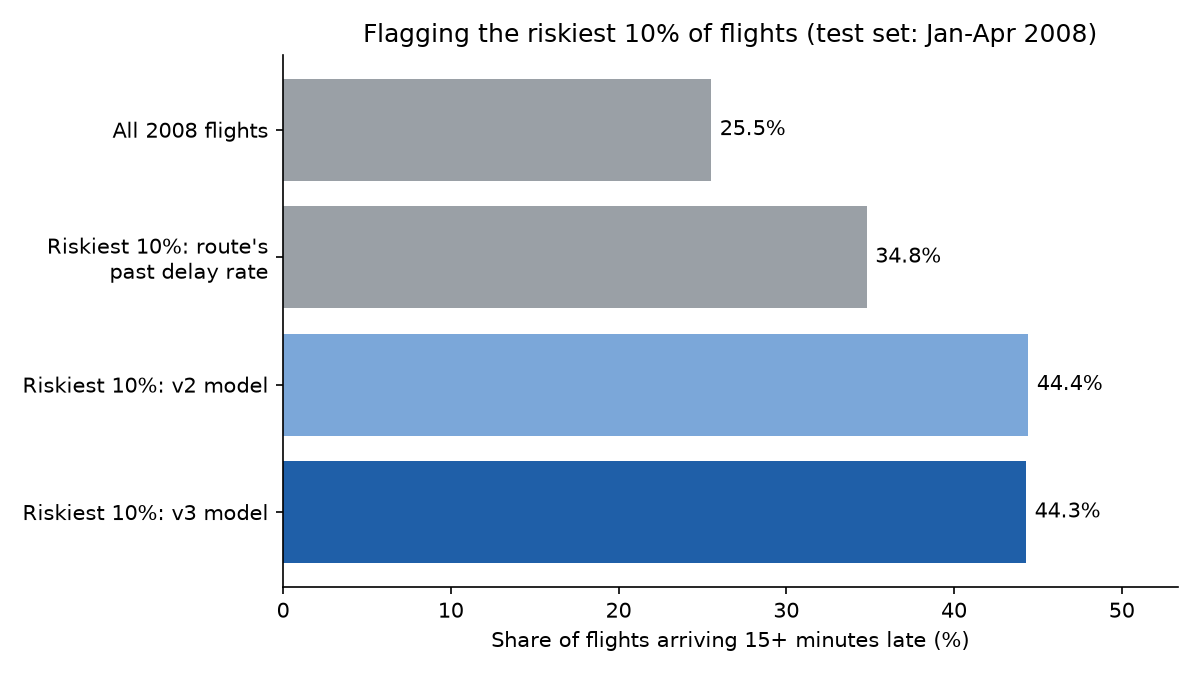
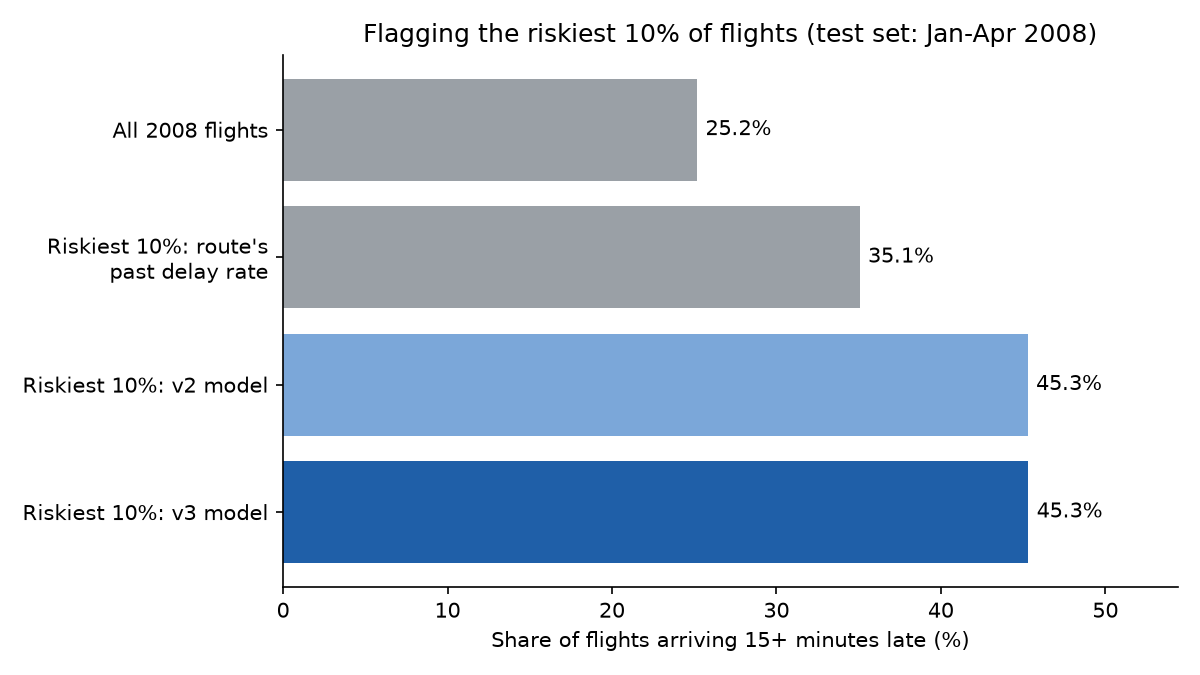
Rerun the 2-hour, 1-hour, weather and calibration models on the 30% sample

diff --git a/src/build_web_page.py b/src/build_web_page.py
@@ -10,7 +10,12 @@ the same ones as in src/prediction_time.py, trained on 2004-2007 only, so
 every flight on the page is one the model never saw.
 
 Usage:
-    python src/build_web_page.py --db data/Fly.db [--weather data/weather] [--pct 1] [--seed 42]
+    python src/build_web_page.py --db data/Fly.db [--weather data/weather] [--pct 1] [--seed 42] [--show-pct 1]
+
+--pct sets how many flights the models learn from. --show-pct sets how many test
+flights go on the page: a 30% sample has about 700,000 test flights, far too many
+for one file, so the page can show a smaller sample while the headline numbers
+still come from every test flight.
 """
 
 import argparse
@@ -107,6 +112,15 @@ def summary(test, risks):
     return {"flights": len(test), "late_overall": round(test["Delayed"].mean(), 3), "by_time": rows}
 
 
+def flights_to_show(test, show_pct, seed):
+    """The test flights that go on the page: all of them, or the ones in a smaller sample."""
+    if show_pct is None:
+        return test
+    # The same hash as model_v2's sampling, so a 1% page holds exactly the 1% sample's flights
+    keep = [model_v2.in_sample(flight_id, show_pct, seed) == 1 for flight_id in test["FlightId"]]
+    return test[keep]
+
+
 def page_rows(test, risks, facts):
     """One short list per flight, in the order of COLUMNS, to keep the file small."""
     test = test.set_index("FlightId")
@@ -144,6 +158,8 @@ def main():
                     help="folder from download_weather.py; skipped if it doesn't exist")
     ap.add_argument("--pct", type=float, default=1, help="percent of flights to sample (default 1)")
     ap.add_argument("--seed", type=int, default=42, help="sampling seed (default 42); same seed, same sample")
+    ap.add_argument("--show-pct", type=float, default=None,
+                    help="percent of flights to put on the page (default: every test flight)")
     args = ap.parse_args()
 
     weather = args.weather if Path(args.weather, "time_zones.json").exists() else None
@@ -152,7 +168,8 @@ def main():
     risks, facts = predictions_at_each_time(df, args.db, weather)
     carriers, airports = names(args.db)
 
-    rows = page_rows(test, risks, facts)
+    # Headline numbers use every test flight; the flight list may be a smaller sample
+    rows = page_rows(flights_to_show(test, args.show_pct, args.seed), risks, facts)
     used_airports = {code for row in rows for code in (row[3], row[4])}
     used_carriers = {row[1] for row in rows}
     page_data = {

diff --git a/tests/test_build_web_page.py b/tests/test_build_web_page.py
@@ -61,3 +61,13 @@ def test_weather_sentence():
                       "OriginStorm": 0, "OriginSnow": 0, "OriginFog": 0})
     assert build_web_page.weather_sentence(calm, "Origin") == "visibility 10 miles; no thunderstorm, snow or fog"
     assert build_web_page.weather_sentence(pd.Series({"OriginVisibility": np.nan}), "Origin") is None
+
+
+def test_page_can_show_a_smaller_sample_of_the_same_flights(db):
+    df = model_v3.load(db, pct=100, seed=42)
+    _, test = model_v2.split_by_year(df)
+    shown = build_web_page.flights_to_show(test, show_pct=20, seed=42)
+    assert 0 < len(shown) < len(test)
+    # Exactly the flights a 20% sample would have picked
+    assert set(shown["FlightId"]) == set(test["FlightId"]) & set(model_v3.load(db, pct=20, seed=42)["FlightId"])
+    assert build_web_page.flights_to_show(test, None, 42) is test

diff --git a/README.md b/README.md
@@ -12,8 +12,8 @@ I analysed 31 million US domestic flights (2004–2008) in Python, R and SQL. Th
 
 - **Data:** 31 million flights, loaded into a SQLite database.
 - **Best time to fly:** the morning. 15.6% of flights scheduled to leave in the morning are late, against 30.9% in the evening.
-- **The model:** the first version scored 0.93–0.98 AUC, which was too good to be true. It used the departure delay to predict the arrival delay. With only the timetable, the honest score is **0.654**, from a model that learned from 8.5 million flights. Predicting 2 hours before departure, using only what has already happened that day, it rises to **0.751** (so far measured on a 1% sample).
-- **What it's good for:** 2 hours out, the 10% of flights the model rates riskiest are late 72% of the time, against 25.5% for all 2008 flights. An airline could send standby crews and spare gates to that list.
+- **The model:** the first version scored 0.93–0.98 AUC, which was too good to be true. It used the departure delay to predict the arrival delay. With only the timetable, the honest score is **0.654**, from a model that learned from 8.5 million flights. Predicting 2 hours before departure, using only what has already happened that day, it rises to **0.765**.
+- **What it's good for:** 2 hours out, the 10% of flights the model rates riskiest are late 73% of the time, against 25.2% for all 2008 flights. An airline could send standby crews and spare gates to that list.
 - **The lesson:** always check *when* each piece of information becomes known.
 
 ![Delay rate by time of day](images/delay_rate_by_time_of_day.png)
@@ -96,7 +96,7 @@ The 2008 data only covers January to April. Each sample is a fixed share of all 
 
 **More data helped gradient boosting a little (0.642 → 0.654) and logistic regression not at all.** Gradient boosting can pick up patterns for rare airports and routes, and more flights give it enough examples of each. Logistic regression gives each airport, airline and hour one fixed weight, and 1% of the data was already enough to set those. (An earlier version of this README said 0.627, 0.641 and 0.997. Those came from a random sample that could not be repeated.)
 
-Steps 4 to 7 below still use the 1% sample, so they compare against the 1% timetable score of 0.642.
+Steps 4 to 8 below use the same 30% sample and the same 695,298 test flights.
 
 ![ROC curves, v2: pre-departure vs leaky features](images/roc_curve_v2.png)
 
@@ -111,22 +111,22 @@ I also compared every model against a simple **benchmark**: no model at all, jus
 
 | Method | Score on 2008 flights (AUC) | Late, among the riskiest 10% | Share of all late flights caught |
 |---|---|---|---|
-| Benchmark: route's past delay rate | 0.589 | 34.8% | 13.6% |
-| v2 gradient boosting | 0.642 | 44.4% | 17.4% |
-| v2 + airport busyness | 0.644 | 44.1% | 17.3% |
-| v2 + route history | 0.641 | 44.1% | 17.3% |
-| v3 gradient boosting (both added) | 0.642 | 44.3% | 17.4% |
-| v3 logistic regression (both added) | 0.633 | 42.1% | 16.5% |
+| Benchmark: route's past delay rate | 0.589 | 35.1% | 13.9% |
+| v2 gradient boosting | 0.654 | 45.3% | 18.0% |
+| v2 + airport busyness | 0.655 | 45.3% | 18.0% |
+| v2 + route history | 0.653 | 45.3% | 18.0% |
+| v3 gradient boosting (both added) | 0.654 | 45.3% | 18.0% |
+| v3 logistic regression (both added) | 0.633 | 42.0% | 16.7% |
 
-Same 1% sample and same 2008 test flights as Step 3. Across all 2008 test flights, 25.5% were late.
+Same 30% sample and same 2008 test flights as Step 3. Across all 2008 test flights, 25.2% were late.
 
 ![Riskiest 10% of flights](images/riskiest_flights_v3.png)
 
 **What this means.**
 
-- **The model beats the benchmark clearly.** Its riskiest 10% of flights are late 44% of the time: 1.7 times the average. Ranking by route history alone gives 35%.
-- **The new features did not help gradient boosting.** It already knows the airport, route, airline and hour, so it had worked out most of this for itself. They did help the simpler logistic regression (0.628 → 0.633).
-- **More data helps a little, not a lot.** With a 5% sample (1,412,072 training flights), gradient boosting scored 0.647 with or without the new features (`python src/model_v3.py --pct 5`).
+- **The model beats the benchmark clearly.** Its riskiest 10% of flights are late 45% of the time: 1.8 times the average. Ranking by route history alone gives 35%.
+- **The new features did not help gradient boosting.** It already knows the airport, route, airline and hour, so it had worked out most of this for itself. They did help the simpler logistic regression (0.629 → 0.633).
+- **More data helps a little, not a lot.** Gradient boosting scored 0.642 on the 1% sample, 0.647 on 5% and 0.654 on 30%.
 - **The timetable alone has a ceiling of about 0.65.** Even 8.5 million training flights only reach 0.654 (Step 3). Most delays come from things that happen on the day, like weather and late incoming planes. Getting past that ceiling means predicting closer to departure, using what has already gone wrong that day.
 
 **Step 5: predicting 2 hours before departure** (`src/model_v4.py`). An airline re-plans crews and gates a couple of hours ahead, and by then it knows more. I moved the prediction to 2 hours before the scheduled departure and added only what is known at that moment:
@@ -139,23 +139,23 @@ This keeps the leakage rule from Step 2: nothing that happens after the 2-hour m
 
 | Method | Score on 2008 flights (AUC) | Late, among the riskiest 10% | Share of all late flights caught |
 |---|---|---|---|
-| Benchmark: route's past delay rate | 0.589 | 34.8% | 13.6% |
-| v3 gradient boosting (timetable only) | 0.642 | 44.3% | 17.4% |
-| + airport's earlier delays only | 0.689 | 58.3% | 22.8% |
-| + plane's previous flight only | 0.731 | 65.9% | 25.8% |
-| v4 logistic regression (2 hours before) | 0.693 | 59.2% | 23.2% |
-| v4 gradient boosting (2 hours before) | **0.751** | **72.1%** | **28.2%** |
+| Benchmark: route's past delay rate | 0.589 | 35.1% | 13.9% |
+| v3 gradient boosting (timetable only) | 0.654 | 45.3% | 18.0% |
+| + airport's earlier delays only | 0.698 | 58.0% | 23.0% |
+| + plane's previous flight only | 0.745 | 68.5% | 27.2% |
+| v4 logistic regression (2 hours before) | 0.691 | 58.5% | 23.2% |
+| v4 gradient boosting (2 hours before) | **0.765** | **73.5%** | **29.2%** |
 
-Same 1% sample and same 2008 test flights as Steps 3 and 4. The airport's earlier delays are known for 84.7% of test flights, the turnaround for 76.8%, and the previous flight's delay for 52.9%. Early-morning flights, for example, have nothing earlier that day to learn from.
+Same 30% sample and same 2008 test flights as Steps 3 and 4. The airport's earlier delays are known for 84.6% of test flights, the turnaround for 77.0%, and the previous flight's delay for 53.2%. On the 1% sample this model scored 0.751, so more data added about 0.014. Early-morning flights, for example, have nothing earlier that day to learn from.
 
 ![Riskiest 10% of flights, 2 hours before departure](images/riskiest_flights_v4.png)
 
 **What this means.**
 
-- **What happened earlier that day matters more than anything in the timetable.** The plane's previous flight alone lifts the score from 0.642 to 0.731.
-- **2 hours out, the riskiest 10% are late 72% of the time**, 2.8 times the average. That list holds 28% of all late flights.
-- **This is still not leakage.** The leaky model scored 0.996 because it was given the flight's own delay. This one only sees other flights, and only what had already happened 2 hours before.
-- **The two models answer different questions.** The timetable model (0.642) works weeks ahead, for planning schedules. The 2-hour model (0.751) works on the day, for operations.
+- **What happened earlier that day matters more than anything in the timetable.** The plane's previous flight alone lifts the score from 0.654 to 0.745.
+- **2 hours out, the riskiest 10% are late 73% of the time**, 2.9 times the average. That list holds 29% of all late flights.
+- **This is still not leakage.** The leaky model scored 0.998 because it was given the flight's own delay. This one only sees other flights, and only what had already happened 2 hours before.
+- **The two models answer different questions.** The timetable model (0.654) works weeks ahead, for planning schedules. The 2-hour model (0.765) works on the day, for operations.
 
 **Step 6: can its percentages be trusted, and when should it raise an alert?** (`src/check_probabilities.py`). A ranking is useful, but an airline acting on "70% chance of delay" needs that 70% to be true. I grouped the 2008 test flights by the 2-hour model's predicted chance and checked how many in each group were really late.
 
@@ -163,32 +163,32 @@ Same 1% sample and same 2008 test flights as Steps 3 and 4. The airport's earlie
 
 | Predicted chance | Flights | Model's average prediction | Really late |
 |---|---|---|---|
-| 0–10% | 5,431 | 7.2% | 9.1% |
-| 10–20% | 8,233 | 14.5% | 16.7% |
-| 20–30% | 3,769 | 24.4% | 26.9% |
-| 30–40% | 2,083 | 34.5% | 34.0% |
-| 40–50% | 1,235 | 44.7% | 44.8% |
-| 50–60% | 914 | 54.7% | 54.4% |
-| 60–70% | 644 | 64.7% | 67.2% |
-| 70–80% | 504 | 74.9% | 77.2% |
-| 80–90% | 356 | 84.8% | 90.2% |
-| 90–100% | 194 | 93.5% | 95.4% |
+| 0–10% | 159,626 | 6.9% | 7.9% |
+| 10–20% | 243,545 | 14.5% | 16.2% |
+| 20–30% | 119,551 | 24.4% | 25.8% |
+| 30–40% | 59,694 | 34.5% | 35.6% |
+| 40–50% | 35,537 | 44.6% | 44.9% |
+| 50–60% | 24,187 | 54.7% | 54.9% |
+| 60–70% | 17,338 | 64.8% | 64.9% |
+| 70–80% | 13,946 | 74.8% | 76.4% |
+| 80–90% | 11,238 | 84.9% | 86.5% |
+| 90–100% | 10,636 | 95.1% | 96.0% |
 
-- **The percentages can be trusted.** On average, a group's prediction is 1.9 points away from what really happened, so no correction is needed.
-- **Where they are off, they run a little low.** The model expects 23.7% of 2008 flights to be late; 25.5% were. Delays became more common every year (20% in 2004, 24.7% in 2007), and a model trained on the past can't know that 2008 would be worse still.
+- **The percentages can be trusted.** On average, a group's prediction is 1.2 points away from what really happened, so no correction is needed.
+- **Where they are off, they run a little low.** The model expects 24.0% of 2008 flights to be late; 25.2% were. Delays became more common every year (20.4% in 2004, 24.8% in 2007), and a model trained on the past can't know that 2008 would be worse still.
 
 **Choosing an alert level.** It is worth acting on a flight when the expected cost of a delay is bigger than the cost of acting: chance of delay × cost of a missed delay > cost of acting. So the alert level is simply **cost of acting ÷ cost of a missed delay**. This only works because the percentages are trustworthy.
 
 | Alert if chance is at least | Flights flagged | Late, among flagged | Share of all late flights caught |
 |---|---|---|---|
-| 20% | 41.5% | 42.3% | 68.7% |
-| 25% | 32.1% | 47.5% | 59.6% |
-| 30% | 25.4% | 52.0% | 51.7% |
-| 40% | 16.5% | 61.8% | 39.9% |
-| 50% | 11.2% | 69.9% | 30.6% |
-| 70% | 4.5% | 84.9% | 15.0% |
+| 20% | 42.0% | 42.2% | 70.3% |
+| 25% | 31.8% | 48.1% | 60.7% |
+| 30% | 24.8% | 53.5% | 52.7% |
+| 40% | 16.2% | 63.0% | 40.6% |
+| 50% | 11.1% | 71.2% | 31.5% |
+| 70% | 5.2% | 85.4% | 17.5% |
 
-For example, if a missed delay costs four times as much as acting (an illustration, not a real airline figure), the alert level is 1 ÷ 4 = 25%. The model would flag about a third of flights and catch 60% of late ones. If acting is expensive, raise the level: at 70%, it flags 4.5% of flights and 85% of them are really late. `--cost-of-acting` and `--cost-of-missed-delay` let you plug in real costs.
+For example, if a missed delay costs four times as much as acting (an illustration, not a real airline figure), the alert level is 1 ÷ 4 = 25%. The model would flag about a third of flights and catch 61% of late ones. If acting is expensive, raise the level: at 70%, it flags 5.2% of flights and 85% of them are really late. `--cost-of-acting` and `--cost-of-missed-delay` let you plug in real costs.
 
 **Step 7: how much does it help to wait?** (`src/prediction_time.py`). I rebuilt the same model with the cutoff at 4 hours, 2 hours and 1 hour before departure. At each cutoff it sees only what had happened by then, so later cutoffs know more.
 
@@ -196,15 +196,15 @@ For example, if a missed delay costs four times as much as acting (an illustrati
 
 | Prediction made | Score on 2008 flights (AUC) | Late, among the riskiest 10% | Share of all late flights caught | Plane's previous take-off known |
 |---|---|---|---|---|
-| Weeks ahead (timetable only) | 0.642 | 44.3% | 17.4% | – |
-| 4 hours before | 0.693 | 58.4% | 22.9% | 12.5% of flights |
-| 2 hours before | 0.751 | 72.1% | 28.2% | 52.9% |
-| 1 hour before | 0.795 | 85.6% | 33.5% | 73.7% |
-| After take-off (leaky) | 0.996 | 100% | 39.2% | – |
+| Weeks ahead (timetable only) | 0.654 | 45.3% | 18.0% | – |
+| 4 hours before | 0.707 | 59.4% | 23.6% | 12.6% of flights |
+| 2 hours before | 0.765 | 73.5% | 29.2% | 53.2% |
+| 1 hour before | 0.807 | 86.2% | 34.2% | 74.1% |
+| After take-off (leaky) | 0.998 | 100% | 39.7% | – |
 
-- **Every hour closer adds accuracy**, mostly because more incoming planes have already taken off. At 4 hours, 12.5% of flights have that information. At 1 hour, 73.7% do.
+- **Every hour closer adds accuracy**, mostly because more incoming planes have already taken off. At 4 hours, 12.6% of flights have that information. At 1 hour, 74.1% do.
 - **This is the trade-off an airline faces:** wait longer and the warning is more accurate, but there is less time to act on it. 1 hour out, 86% of flagged flights are late, but there may be no spare crew left to call.
-- **Even 1 hour out, the honest model (0.795) is far from the leaky one (0.996).** That gap is what the leaky model was getting by being told the answer.
+- **Even 1 hour out, the honest model (0.807) is far from the leaky one (0.998).** That gap is what the leaky model was getting by being told the answer.
 
 **Step 8: adding the weather** (`src/download_weather.py`, `src/model_weather.py`). I downloaded the hourly weather reports that US airports publish, for 2004 to April 2008, from the [Iowa Environmental Mesonet](https://mesonet.agron.iastate.edu/request/download.phtml) (Iowa State University). That covers 96 of the 100 busiest airports (232 MB); the other four aren't in the archive. For each flight, the model sees the **last report issued before the 2-hour mark** at both the departure and arrival airports:
 
@@ -215,14 +215,14 @@ A report more than 3 hours old is treated as unknown. All times are converted to
 
 | Method | Score on 2008 flights (AUC) | Late, among the riskiest 10% | Share of all late flights caught |
 |---|---|---|---|
-| Timetable only (weeks ahead) | 0.642 | 44.3% | 17.4% |
-| Timetable + weather, 2 hours before | 0.704 | 60.4% | 23.7% |
-| 2 hours before | 0.751 | 72.1% | 28.2% |
-| 2 hours before + weather | **0.780** | **76.0%** | **29.8%** |
+| Timetable only (weeks ahead) | 0.654 | 45.3% | 18.0% |
+| Timetable + weather, 2 hours before | 0.717 | 62.3% | 24.7% |
+| 2 hours before | 0.765 | 73.5% | 29.2% |
+| 2 hours before + weather | **0.793** | **77.7%** | **30.9%** |
 
-Weather is known at the departure airport for 90.6% of test flights, and at the arrival airport for 88.3%.
+Weather is known at the departure airport for 90.7% of test flights, and at the arrival airport for 88.2%.
 
-- **Weather helps, and it helps most when little else is known.** Adding only the weather to the timetable features lifts the score from 0.642 to 0.704, but adding it to the full 2-hour model only lifts it from 0.751 to 0.780. Note that the 0.704 model is a 2-hour prediction too: weather on the day isn't known weeks ahead, so it doesn't improve the weeks-ahead model. The airport's earlier delays already reflect a bad-weather day, so some of the information was already there.
+- **Weather helps, and it helps most when little else is known.** Adding only the weather to the timetable features lifts the score from 0.654 to 0.717, but adding it to the full 2-hour model only lifts it from 0.765 to 0.793. Note that the 0.717 model is a 2-hour prediction too: weather on the day isn't known weeks ahead, so it doesn't improve the weeks-ahead model. The airport's earlier delays already reflect a bad-weather day, so some of the information was already there.
 - **The arrival airport matters too.** A storm at the destination delays the arrival even if the departure is on time.
 
 ## Terms used
@@ -241,8 +241,8 @@ Weather is known at the departure airport for 90.6% of test flights, and at the 
 - **Delay rates, not counts.** Busy times naturally have more delays, so every comparison uses the *share* of flights that were late.
 - **The FAA definition of late:** 15+ minutes after schedule.
 - **Test on a later year.** A random split would let the model learn from days it is later tested on. Training on 2004–2007 and testing on 2008 avoids that.
-- **Always compare against a benchmark.** A score of 0.64 means little on its own. Beating the route's past delay rate (0.589) shows the model learned something history alone doesn't give you.
-- **Report a result in business terms.** "The riskiest 10% are late 44% of the time" is something an operations manager can act on. An AUC is not.
+- **Always compare against a benchmark.** A score of 0.65 means little on its own. Beating the route's past delay rate (0.589) shows the model learned something history alone doesn't give you.
+- **Report a result in business terms.** "The riskiest 10% are late 73% of the time" is something an operations manager can act on. An AUC is not.
 - **Repeatable samples.** The model always picks the same sample of flights for a given setting, so anyone rerunning it gets the same numbers.
 
 ## Tools
@@ -261,7 +261,7 @@ Weather is known at the departure airport for 90.6% of test flights, and at the 
 ├── src/model_v4.py                         # Predicts 2 hours before departure, using delays already known that day
 ├── src/check_probabilities.py              # Checks the 2-hour model's percentages and picks an alert level from costs
 ├── src/prediction_time.py                  # Same model at 4, 2 and 1 hours before departure
-├── src/build_web_page.py                   # Saves every 2008 test flight's predictions for the web page
+├── src/build_web_page.py                   # Saves 2008 test flights' predictions for the web page
 ├── src/download_weather.py                 # Downloads hourly airport weather (2004–Apr 2008) for the busiest airports
 ├── src/model_weather.py                    # Adds the last weather report before the 2-hour mark
 ├── docs/                                   # The web page (index.html) and its data (flights.json)
@@ -292,6 +292,7 @@ Weather is known at the departure airport for 90.6% of test flights, and at the 
    python src/time_of_day.py --db data/Fly.db               # redraws images/delay_rate_by_time_of_day.png
    python src/findings.py --db data/Fly.db                  # day, season and plane-age tables and charts
    ```
+   Every script uses a 1% sample by default, which runs in minutes. The README's numbers come from `--pct 30` (8.5 million training flights), which takes several hours for the 2-hour scripts and needs about 15 GB of memory. The web page was built with `--pct 30 --show-pct 1`: models trained on 30%, with 1% of the test flights listed so the file stays small.
 3. R: open `r/flight_delay_analysis.Rmd` in RStudio and knit.
 4. Tests (no data needed, as they build a tiny fake database):
    ```bash
